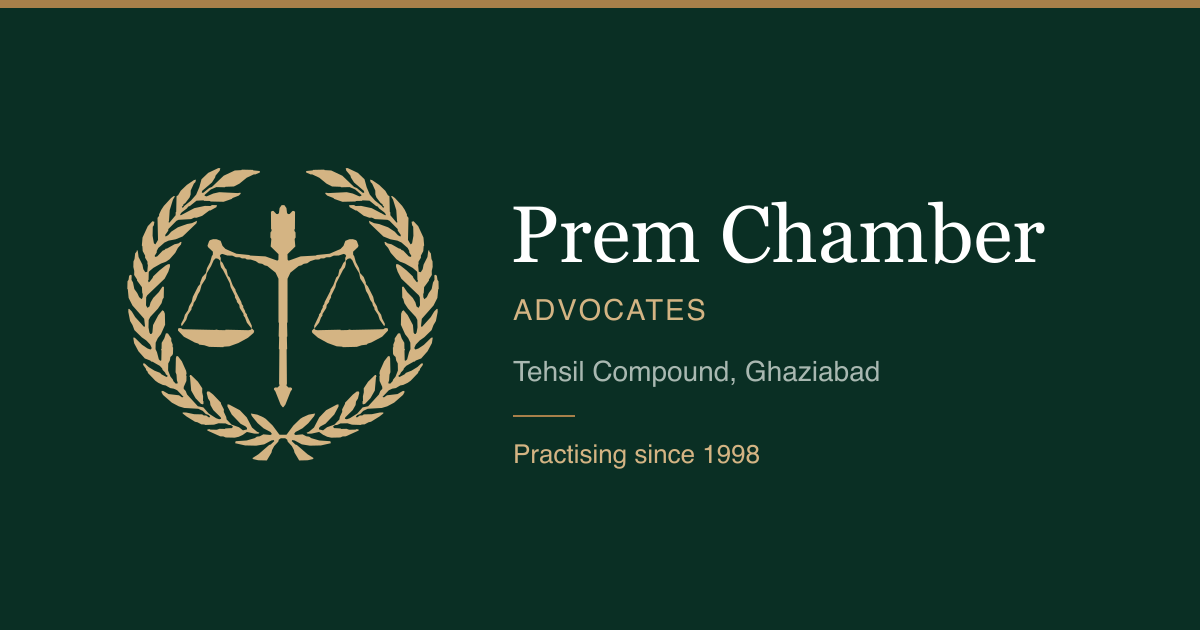
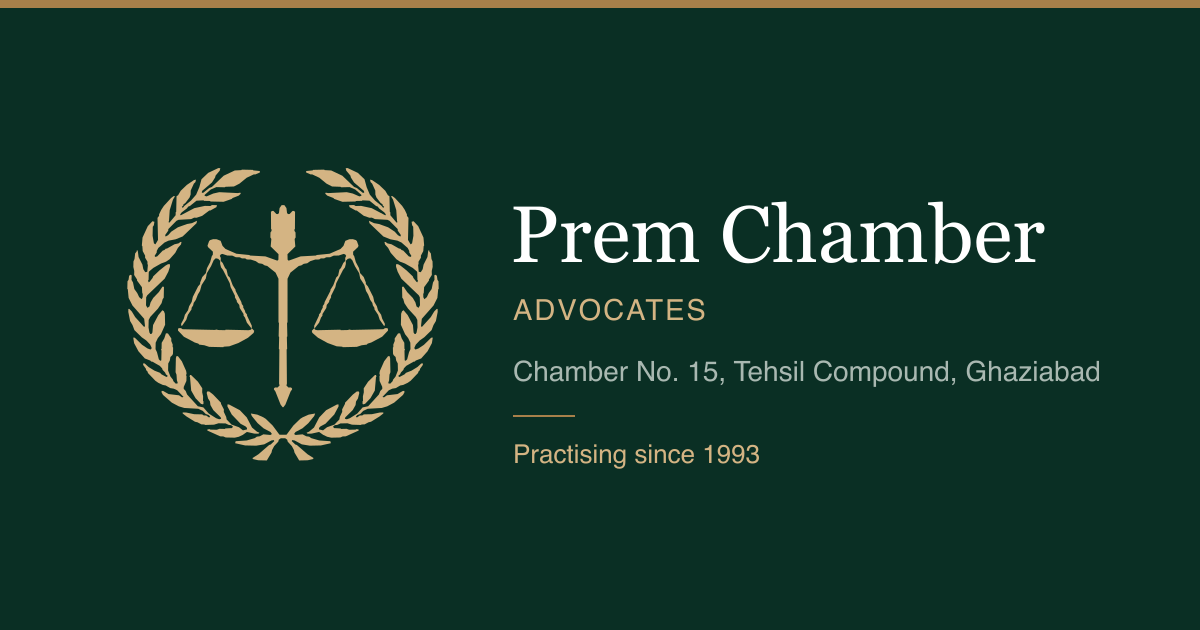
Practising since 1993, and generate the share cards from site.ts
The year was one edit in site.ts for every page, but the share cards
carry it as pixels and would have silently kept saying 1998. Rather than
patch the images by hand, tools/build-og-cards.py now reads the brand,
address and year out of site.ts and composes the cards from them, so
they cannot drift out of step again.

That also picked up the chamber number, which the hand-written version
had dropped: the cards now read "Chamber No. 15, Tehsil Compound,
Ghaziabad" rather than just the compound.

Changed region(s): [[0.4317, 0.573, 0.925, 0.6032]]

diff --git a/src/data/site.ts b/src/data/site.ts
@@ -58,7 +58,7 @@ export const SITE = {
     council: 'Bar Council of Uttar Pradesh',
     councilHi: 'बार काउंसिल ऑफ़ उत्तर प्रदेश',
     enrolmentNo: '', // VERIFY: mandatory before publishing
-    practisingSince: '1998',
+    practisingSince: '1993',
   },
 
   /** Last time the fee/rate figures in the guides were checked against the official source. */

diff --git a/tools/build-og-cards.py b/tools/build-og-cards.py
@@ -1,0 +1,60 @@
+#!/usr/bin/env python3
+"""
+Build the 1200x630 cards shown when a page is shared on WhatsApp or Facebook.
+
+Every value is read out of src/data/site.ts rather than typed here, because the
+year and the address are baked into the image as pixels — if they were written
+twice they would drift apart the first time one of them changed.
+
+    python3 tools/build-og-cards.py && \\
+      npx --yes sharp-cli -i /tmp/og-en.svg -o public/og-en.png --format png
+"""
+import re
+import subprocess
+from pathlib import Path
+
+ROOT = Path(__file__).resolve().parent.parent
+site = (ROOT / 'src' / 'data' / 'site.ts').read_text()
+
+
+def field(name):
+    m = re.search(rf"\b{name}:\s*'([^']*)'", site)
+    return m.group(1) if m else ''
+
+
+BRAND, BRAND_HI = field('brand'), field('brandHi')
+LINE1, LINE1_HI = field('line1'), field('line1Hi')
+CITY, CITY_HI = field('city'), field('cityHi')
+YEAR = field('practisingSince')
+
+emblem = subprocess.run(
+    ['python3', str(ROOT / 'tools' / 'build-emblem.py'), '--turn', '3'],
+    capture_output=True, text=True, check=True).stdout
+vb = re.search(r'viewBox="([^"]+)"', emblem).group(1)
+art = emblem[emblem.index('>', emblem.index('<svg')) + 1: emblem.rindex('</svg>')].strip().replace('fill="CLR"', '')
+
+DEVA = '&apos;Devanagari Sangam MN&apos;, &apos;Noto Sans Devanagari&apos;, sans-serif'
+
+
+def card(out, brand, role, place, since, latin):
+    fam = 'Georgia, serif' if latin else DEVA
+    sans = 'Helvetica, Arial, sans-serif' if latin else DEVA
+    rule = f'<rect x="513" y="415" width="62" height="2" fill="#a8804a"/>' if since else ''
+    line = f'<text x="513" y="463" font-family="{sans}" font-size="26" fill="#d4b483">{since}</text>' if since else ''
+    Path(out).write_text(f'''<svg xmlns="http://www.w3.org/2000/svg" width="1200" height="630" viewBox="0 0 1200 630">
+  <rect width="1200" height="630" fill="#0a2f24"/>
+  <rect x="0" y="0" width="1200" height="8" fill="#a8804a"/>
+  <svg x="118" y="150" width="330" height="330" viewBox="{vb}" fill="#d4b483" fill-rule="evenodd">{art}</svg>
+  <text x="510" y="262" font-family="{fam}" font-size="80" fill="#ffffff">{brand}</text>
+  <text x="513" y="320" font-family="{sans}" font-size="29" letter-spacing="2" fill="#d4b483">{role}</text>
+  <text x="513" y="381" font-family="{sans}" font-size="28" fill="#a9b8b1">{place}</text>
+  {rule}
+  {line}
+</svg>''')
+    print(out)
+
+
+card('/tmp/og-en.svg', BRAND, 'ADVOCATES', f'{LINE1}, {CITY}',
+     f'Practising since {YEAR}' if YEAR else '', True)
+card('/tmp/og-hi.svg', BRAND_HI, 'अधिवक्ता', f'{LINE1_HI}, {CITY_HI}',
+     f'{YEAR} से प्रैक्टिस' if YEAR else '', False)

diff --git a/README.md b/README.md
@@ -86,6 +86,23 @@ Remove the entry once the position is filled — a stale vacancy is worse than n
 No stipend figure is printed anywhere on that page, deliberately. It varies, and the
 page says it is discussed directly instead.
 
+### Changing the year, the brand or the address
+
+All of it lives in `src/data/site.ts`. The header, hero, footer, About page and the
+structured data read from there, so one edit covers the site.
+
+The share cards are the exception: their text is baked into the PNG as pixels. After
+changing anything that appears on them, regenerate:
+
+```bash
+python3 tools/build-og-cards.py
+npx --yes sharp-cli -i /tmp/og-en.svg -o public/og-en.png --format png
+npx --yes sharp-cli -i /tmp/og-hi.svg -o public/og-hi.png --format png
+```
+
+The script reads every value out of `site.ts` rather than repeating it, so the cards
+cannot drift out of step with the pages.
+
 ### Adding photographs of the chamber
 
 Photographs cannot be pulled from the Google Business Profile — Google publishes no
